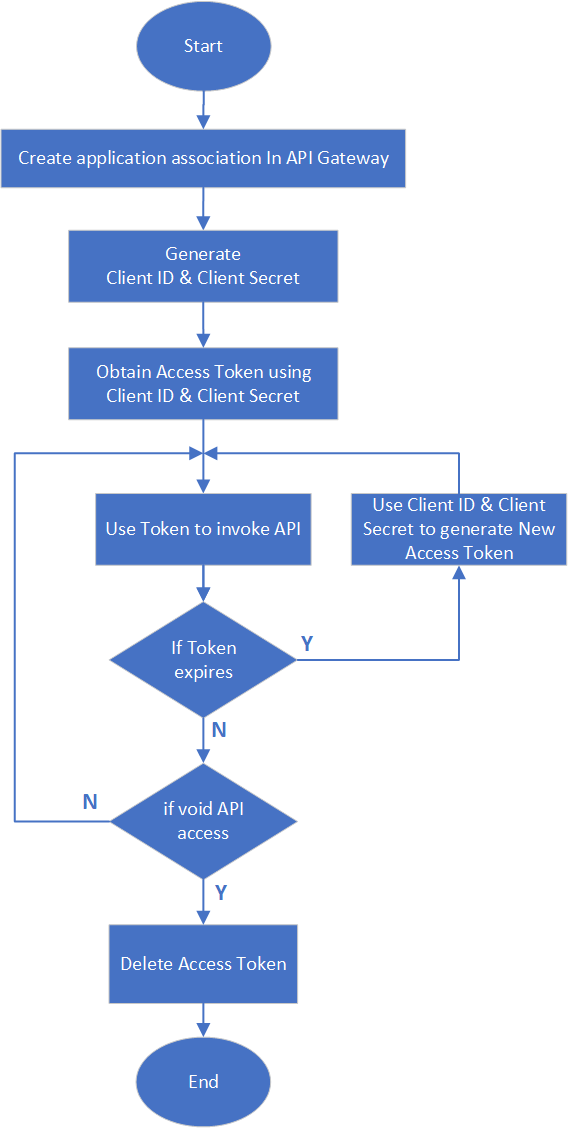
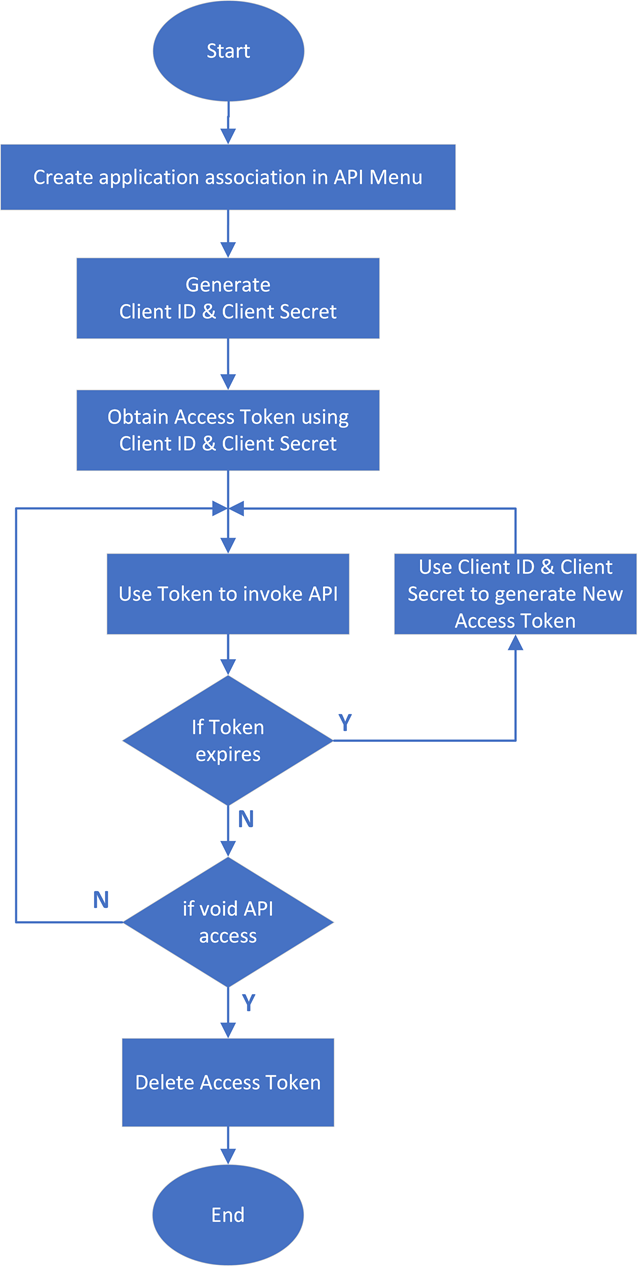
Update Blog “api-console-for-data-services-cloud-console”

diff --git a/content/blog/api-console-for-data-services-cloud-console.md b/content/blog/api-console-for-data-services-cloud-console.md
@@ -31,9 +31,9 @@ And lastly, when access to the API must be disabled, a user can delete the API c
 
 ## Accessing the API Gateway Console
 
-To access the API console, user must login into the [GreenLake Console,](https://common.cloud.hpe.com) deployed the DSCC to the intended region, and onboarded a storage array (Alletra, Nimble, or Primera) into the organization that is associated with the user account. The user must have the role that is required to perform the intended operation at the instance of DSCC where the storage is deployed. e.g. User must have volume management capability in the Data Ops Management to create a storage volume in US West. For more information about the role based access control, please take a look at the [HPE GreenLake User Guide](https://support.hpe.com/hpesc/public/docDisplay?docId=ccs-help_en_us)
+To access the API console, the user must log into the [HPE GreenLake Console,](https://common.cloud.hpe.com) have deployed the DSCC to the intended region, and onboarded a storage array (HPE Alletra, HPE Nimble, or HPE Primera) into the organization that is associated with the user account. The user must have the role that is required to perform the intended operation at the instance of DSCC where the storage is deployed. For instance, the user must have volume management capability in the Data Ops Management to create a storage volume in US region. For more information about the role based access control, please take a look at the [HPE GreenLake User Guide](https://support.hpe.com/hpesc/public/docDisplay?docId=ccs-help_en_us)
 
-The **API** **Gateway** menu is available inside **Manage** menu. From **Greenlake Console** click on **Menu** to access this **Manage** Menu.
+The API Gateway menu is available inside the Manage menu. From HPE Greenlake Console click on Menu to access this Manage Menu.
 
 ![Access Menu ](/img/accesing-manage-menu-from-console.png "Menu in Cloud Console")
 
